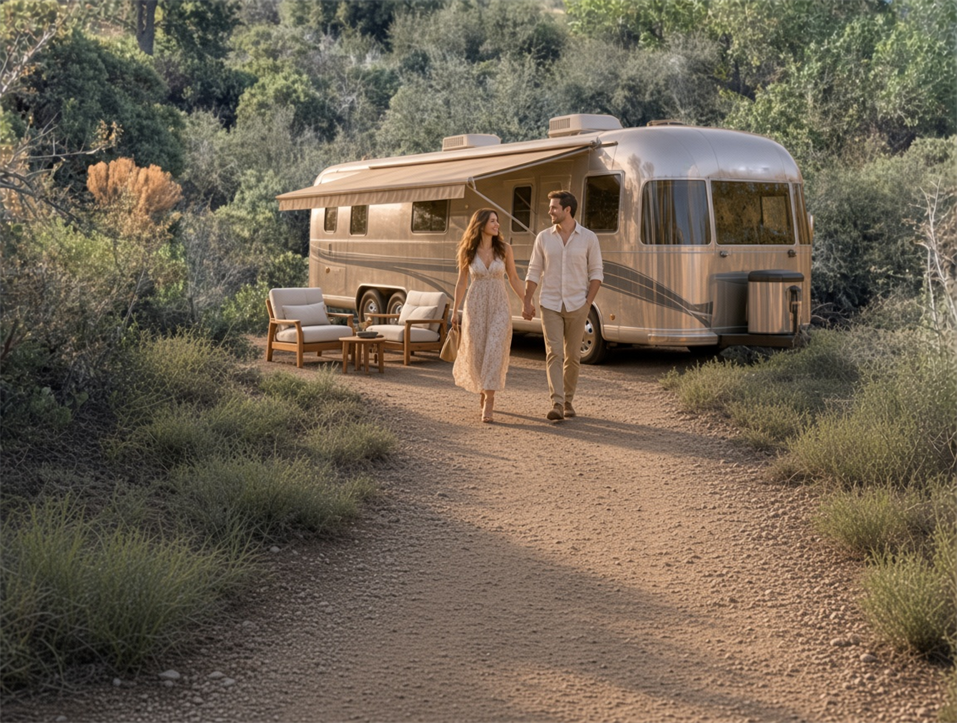
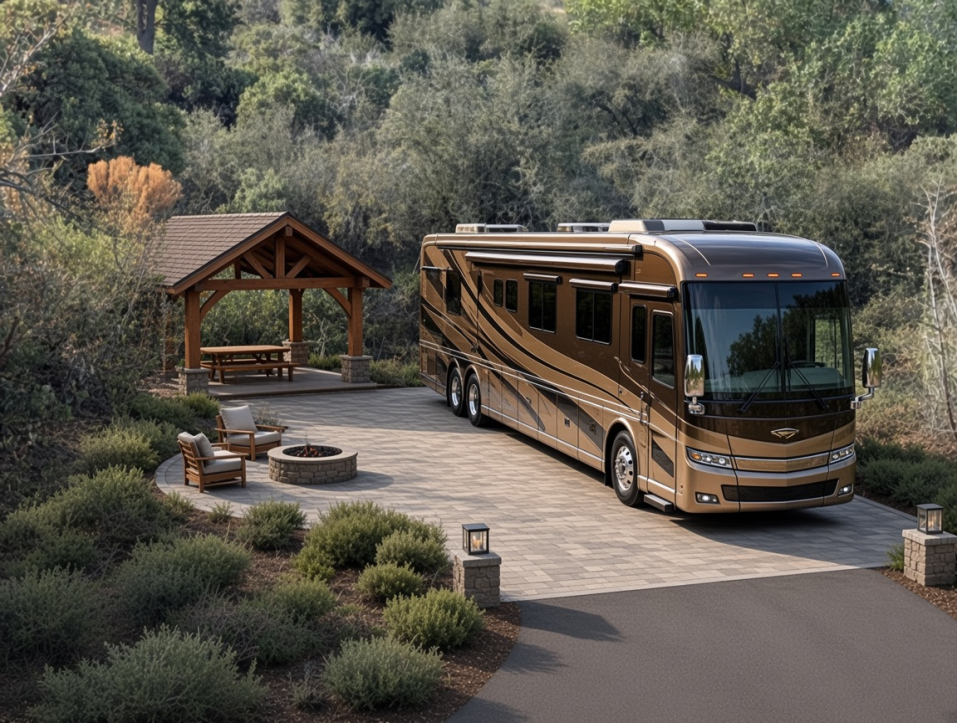
Update RV2b.png after image to match luxury RV campground design

diff --git a/index.html b/index.html
@@ -400,7 +400,7 @@
                 type="button"
                 data-lightbox-src="assets/images/CG5.png"
                 data-lightbox-alt="Concept rendering of a luxury RV campground on the Kings Canyon property"
-                data-gallery-alts="Concept rendering of a luxury RV campground on the Kings Canyon property,Closer view of the luxury RV campground and central community pavilion,Empty oak woodland campsite before an RV stay,Dirt road campsite before a travel trailer stay"
+                data-gallery-alts="Concept rendering of a luxury RV campground on the Kings Canyon property,Closer view of the luxury RV campground and central community pavilion,Oak woodland campsite before and after a luxury RV stay,Woodland clearing before and after a luxury RV stay"
                 aria-label="Explore campground photos"
               >
                 <img
